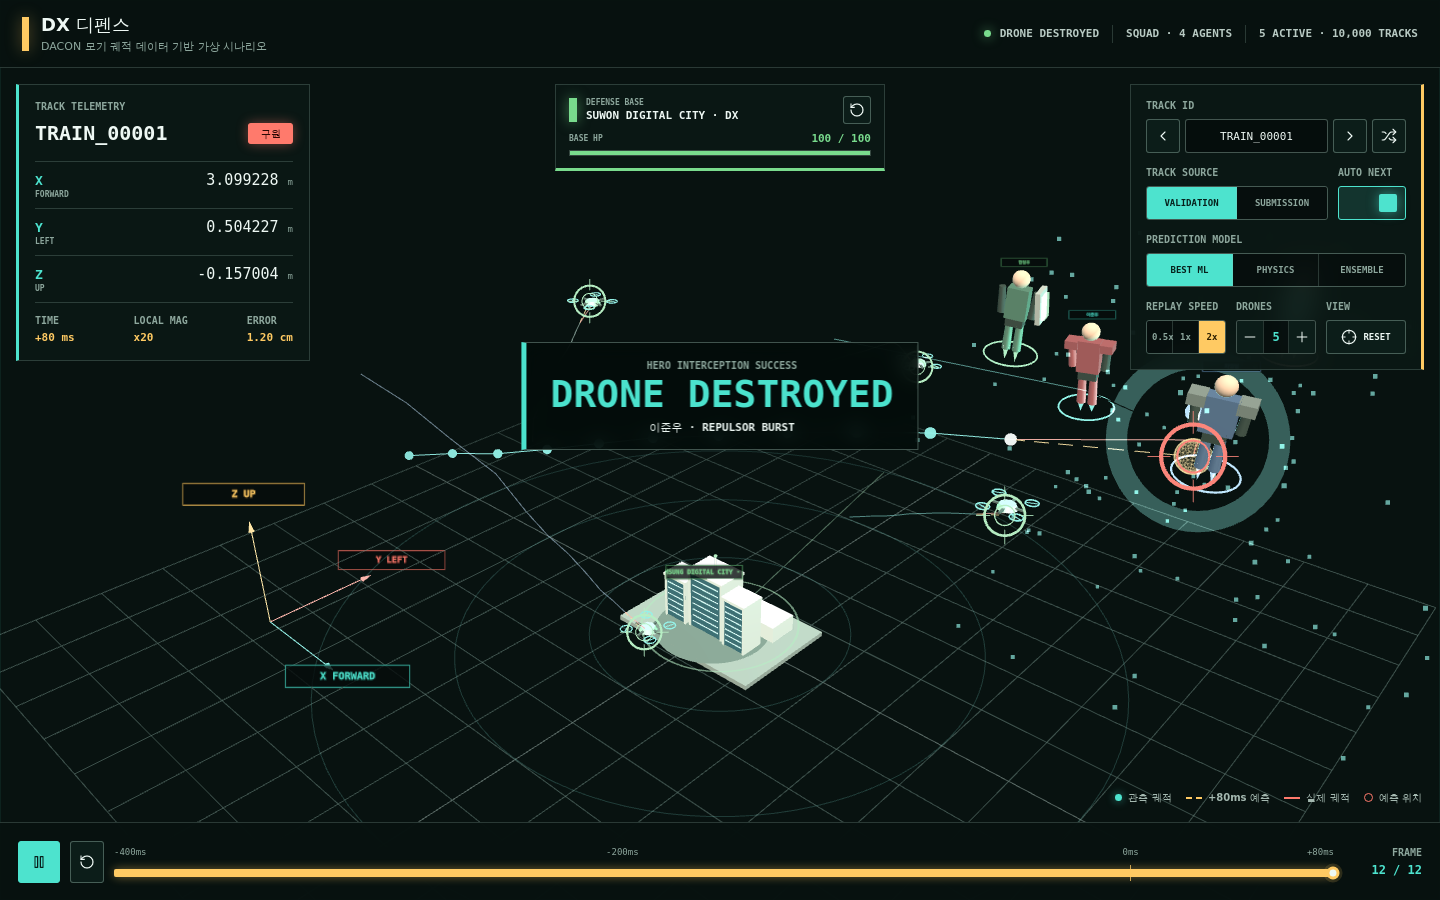
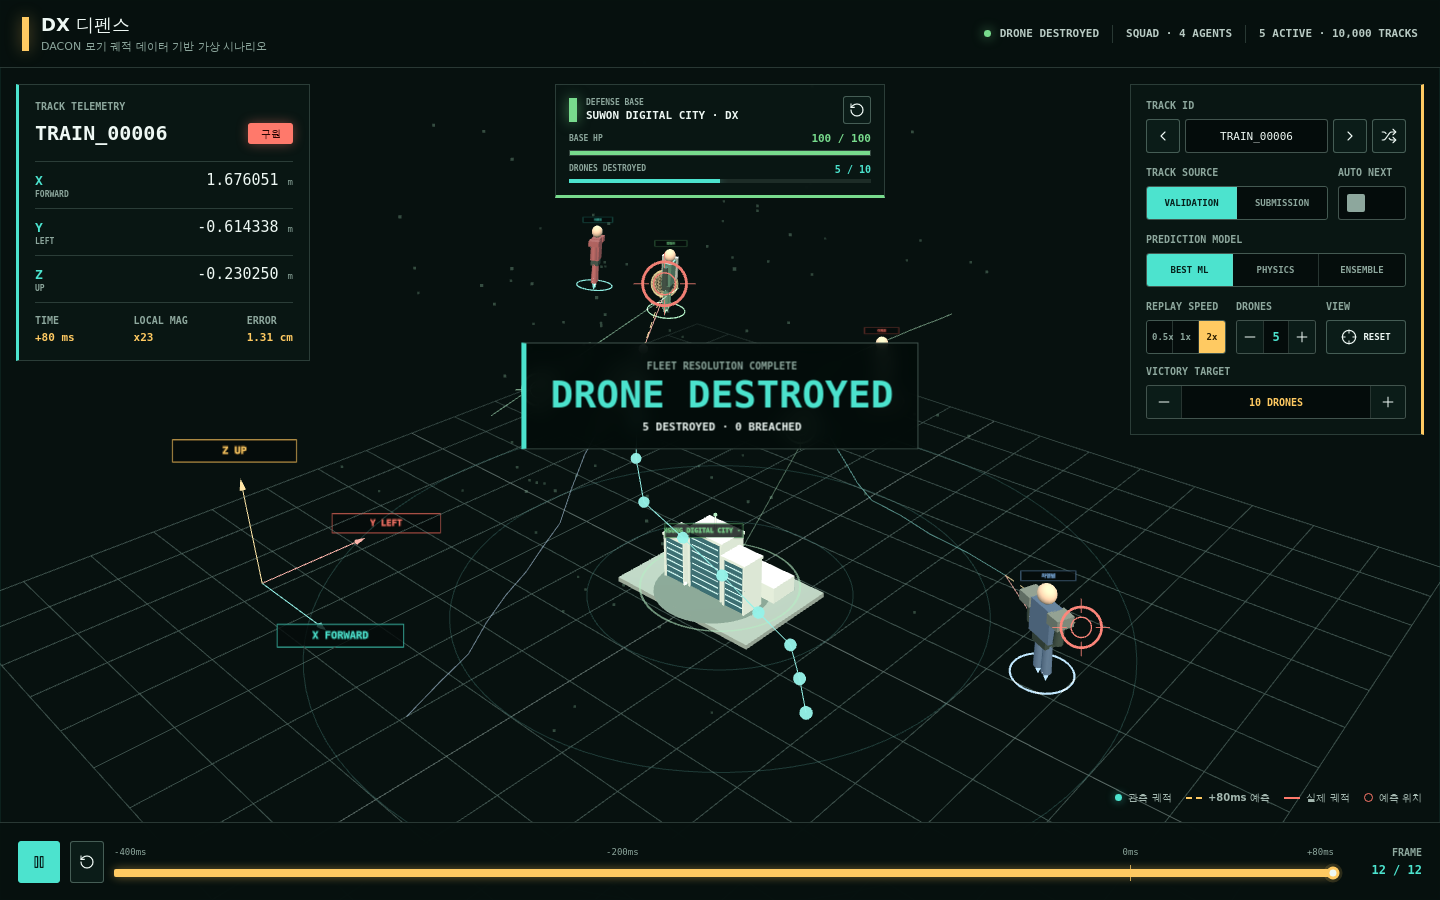
승리 목표를 10대에서 50대로 변경하고, 관련 HUD 및 진행률 표시 업데이트

diff --git a/visualization/src/main.js b/visualization/src/main.js
@@ -173,7 +173,7 @@ const state = {
   started: false,
   selectedHeroes: [],
   destroyedDrones: 0,
-  victoryTarget: 10,
+  victoryTarget: 50,
   victory: false,
 };
 
@@ -1160,7 +1160,7 @@ function updateMissionProgress() {
   elements.missionTrack.setAttribute("aria-valuemax", String(state.victoryTarget));
   elements.missionTrack.setAttribute("aria-valuenow", String(state.destroyedDrones));
   elements.decreaseVictoryTarget.disabled = state.victoryTarget <= 1;
-  elements.increaseVictoryTarget.disabled = state.victoryTarget >= 50;
+  elements.increaseVictoryTarget.disabled = state.victoryTarget >= 250;
 }
 
 function showVictoryOutro() {
@@ -1191,20 +1191,18 @@ function scheduleVictory() {
   victoryTimer = window.setTimeout(showVictoryOutro, 1050);
 }
 
-function recordDroneDestroyed() {
-  if (state.outcome?.destroyedRecorded) {
+function recordDroneDestroyed(result = state.outcome) {
+  if (!result || result.destroyedRecorded) {
     return;
   }
-  if (state.outcome) {
-    state.outcome.destroyedRecorded = true;
-  }
+  result.destroyedRecorded = true;
   state.destroyedDrones += 1;
   updateMissionProgress();
   scheduleVictory();
 }
 
 function setVictoryTarget(target) {
-  state.victoryTarget = THREE.MathUtils.clamp(Math.round(target), 1, 50);
+  state.victoryTarget = THREE.MathUtils.clamp(Math.round(target), 1, 250);
   updateMissionProgress();
   scheduleVictory();
 }
@@ -1737,6 +1735,192 @@ function createHeroInterception(origin, unit) {
   };
 }
 
+function createSupportProjectile(mode, heroId, color) {
+  const material = new THREE.MeshBasicMaterial({
+    color,
+    transparent: true,
+    opacity: 0.96,
+    depthWrite: false,
+    blending: THREE.AdditiveBlending,
+  });
+  if (mode === "hero-support" && heroId === "chaeeun") {
+    const group = new THREE.Group();
+    for (const offset of [-0.08, 0.08]) {
+      const pulse = new THREE.Mesh(
+        new THREE.SphereGeometry(0.075, 10, 8),
+        material.clone(),
+      );
+      pulse.position.x = offset;
+      group.add(pulse);
+    }
+    return group;
+  }
+  if (mode === "hero-support" && heroId === "youngbeom") {
+    return new THREE.Mesh(new THREE.IcosahedronGeometry(0.14, 1), material);
+  }
+  if (mode === "hero-support" && heroId === "jungwoo") {
+    return new THREE.Mesh(new THREE.BoxGeometry(0.07, 0.3, 0.22), material);
+  }
+  if (mode === "hero-support") {
+    return new THREE.Mesh(new THREE.SphereGeometry(0.13, 12, 10), material);
+  }
+  return new THREE.Mesh(new THREE.ConeGeometry(0.07, 0.32, 8), material);
+}
+
+function createFleetSupportOutcomes() {
+  return companionTracks
+    .filter((track) => track.sample.actual)
+    .map((track, index) => {
+      const prediction = track.sample.predictions[state.method];
+      const actual = track.sample.actual;
+      const errorMeters = Math.hypot(
+        prediction[0] - actual[0],
+        prediction[1] - actual[1],
+        prediction[2] - actual[2],
+      );
+      const hit = errorMeters <= HIT_RADIUS_METERS;
+      const heroUnit =
+        !hit && heroUnits.length > 0
+          ? heroUnits[Math.floor(Math.random() * heroUnits.length)]
+          : null;
+      const mode = hit ? "base-defense" : heroUnit ? "hero-support" : "base-attack";
+      const color =
+        mode === "base-defense"
+          ? COLORS.green
+          : mode === "hero-support"
+            ? HEROES[heroUnit.id].accent
+            : COLORS.red;
+      const target = companionToWorld(actual, track);
+      const start =
+        mode === "base-defense"
+          ? baseLaunchWorld()
+          : mode === "hero-support"
+            ? heroUnit.group.position.clone()
+            : target.clone();
+      const end = mode === "base-attack" ? baseTargetWorld() : target.clone();
+      const group = new THREE.Group();
+      const projectile = createSupportProjectile(mode, heroUnit?.id ?? null, color);
+      projectile.position.copy(start);
+      projectile.visible = false;
+      group.add(projectile);
+
+      const beam = new THREE.Line(
+        new THREE.BufferGeometry().setFromPoints([start, start]),
+        new THREE.LineBasicMaterial({
+          color,
+          transparent: true,
+          opacity: 0,
+          blending: THREE.AdditiveBlending,
+        }),
+      );
+      group.add(beam);
+
+      const impactRing = new THREE.Mesh(
+        new THREE.RingGeometry(0.16, 0.22, 36),
+        new THREE.MeshBasicMaterial({
+          color,
+          transparent: true,
+          opacity: 0,
+          side: THREE.DoubleSide,
+          depthWrite: false,
+          blending: THREE.AdditiveBlending,
+        }),
+      );
+      impactRing.position.copy(end);
+      impactRing.visible = false;
+      group.add(impactRing);
+
+      const impactLight = new THREE.PointLight(color, 0, 5);
+      impactLight.position.copy(end);
+      group.add(impactLight);
+      effectsGroup.add(group);
+
+      return {
+        track,
+        mode,
+        heroId: heroUnit?.id ?? null,
+        errorMeters,
+        group,
+        projectile,
+        beam,
+        impactRing,
+        impactLight,
+        start,
+        end,
+        delay: 0.12 + index * 0.1,
+        duration: mode === "base-attack" ? 0.78 : 0.66,
+        resolved: false,
+        destroyedRecorded: false,
+      };
+    });
+}
+
+function updateFleetSupportOutcomes(elapsed) {
+  const supportEffects = state.outcome?.supportEffects ?? [];
+  if (supportEffects.length === 0) {
+    return;
+  }
+
+  for (const support of supportEffects) {
+    const localTime = elapsed - support.delay;
+    if (localTime < 0) {
+      continue;
+    }
+    const progress = THREE.MathUtils.clamp(localTime / support.duration, 0, 1);
+    const eased = 1 - Math.pow(1 - progress, 3);
+    support.projectile.visible = progress < 1;
+    support.projectile.position.lerpVectors(support.start, support.end, eased);
+    support.projectile.rotation.x += 0.16;
+    support.projectile.rotation.z += 0.12;
+    support.beam.geometry.dispose();
+    support.beam.geometry = new THREE.BufferGeometry().setFromPoints([
+      support.start,
+      support.projectile.position,
+    ]);
+    support.beam.material.opacity = Math.sin(progress * Math.PI) * 0.72;
+
+    if (progress >= 1 && !support.resolved) {
+      support.resolved = true;
+      support.projectile.visible = false;
+      support.beam.material.opacity = 0;
+      support.impactRing.visible = true;
+      support.impactLight.intensity = 4.5;
+      if (support.mode === "base-attack") {
+        damageBase();
+        setBaseAlert(true);
+      } else {
+        support.track.drone.group.visible = false;
+        recordDroneDestroyed(support);
+      }
+    }
+
+    if (support.resolved) {
+      const impactElapsed = Math.max(0, localTime - support.duration);
+      support.impactRing.quaternion.copy(camera.quaternion);
+      support.impactRing.scale.setScalar(1 + impactElapsed * 4.2);
+      support.impactRing.material.opacity = Math.max(0, 0.9 - impactElapsed * 1.4);
+      support.impactLight.intensity = Math.max(0, 4.5 - impactElapsed * 6);
+    }
+  }
+
+  if (
+    supportEffects.every((support) => support.resolved)
+    && !state.outcome.supportSummaryShown
+  ) {
+    state.outcome.supportSummaryShown = true;
+    const primaryDestroyed = state.outcome.type === "hit" || state.outcome.heroId ? 1 : 0;
+    const supportDestroyed = supportEffects.filter(
+      (support) => support.mode !== "base-attack",
+    ).length;
+    const breached = supportEffects.filter(
+      (support) => support.mode === "base-attack",
+    ).length + (primaryDestroyed ? 0 : 1);
+    elements.outcomeKicker.textContent = "FLEET RESOLUTION COMPLETE";
+    elements.outcomeDetail.textContent =
+      `${primaryDestroyed + supportDestroyed} DESTROYED · ${breached} BREACHED`;
+  }
+}
+
 function showOutcomeOverlay(type, errorMeters, heroId = null) {
   const hit = type === "hit";
   const hero = heroId ? HEROES[heroId] : null;
@@ -1793,6 +1977,7 @@ function triggerOutcome(now) {
     damageApplied: false,
     impactApplied: false,
   };
+  state.outcome.supportEffects = createFleetSupportOutcomes();
   showOutcomeOverlay(type, errorMeters, heroUnit?.id);
   setTargetColor(type === "hit" ? COLORS.amber : COLORS.red);
   errorLine.visible = true;
@@ -1822,6 +2007,10 @@ function triggerOutcome(now) {
 function updateHeroUnits(now) {
   const elapsed = now * 0.001;
   const rotationAxis = new THREE.Vector3(0, 1, 0);
+  const escortDrones = [
+    drone.group,
+    ...companionTracks.map((track) => track.drone.group),
+  ];
 
   for (const unit of heroUnits) {
     const pulse = 0.82 + Math.sin(elapsed * 8 + unit.slot) * 0.18;
@@ -1834,11 +2023,15 @@ function updateHeroUnits(now) {
       continue;
     }
 
-    const offset = unit.offset.clone().applyAxisAngle(rotationAxis, drone.group.rotation.y * 0.4);
-    const desired = drone.group.position.clone().add(offset);
+    const escort = escortDrones[unit.slot % escortDrones.length];
+    const offset = unit.offset
+      .clone()
+      .multiplyScalar(0.72)
+      .applyAxisAngle(rotationAxis, escort.rotation.y * 0.4);
+    const desired = escort.position.clone().add(offset);
     desired.y += Math.sin(elapsed * 3.4 + unit.slot * 1.7) * 0.12;
     unit.group.position.lerp(desired, 0.1);
-    unit.group.rotation.y = drone.group.rotation.y + Math.PI;
+    unit.group.rotation.y = escort.rotation.y + Math.PI;
     unit.model.rotation.z = Math.sin(elapsed * 2.2 + unit.slot) * 0.055;
     unit.model.rotation.x = -0.1 + Math.sin(elapsed * 2.8 + unit.slot) * 0.025;
   }
@@ -2050,6 +2243,7 @@ function updateOutcomeEffect(now) {
       effect.impactLight.intensity = 0;
     }
   }
+  updateFleetSupportOutcomes(elapsed);
 }
 
 function rebuildTrajectory() {

diff --git a/visualization/index.html b/visualization/index.html
@@ -147,9 +147,9 @@
         </div>
         <div class="mission-row">
           <span>DRONES DESTROYED</span>
-          <strong><b id="destroyed-count">0</b> / <b id="victory-target-display">10</b></strong>
+          <strong><b id="destroyed-count">0</b> / <b id="victory-target-display">50</b></strong>
         </div>
-        <div class="mission-track" role="progressbar" aria-label="승리 목표 진행률" aria-valuemin="0" aria-valuemax="10" aria-valuenow="0">
+        <div class="mission-track" role="progressbar" aria-label="승리 목표 진행률" aria-valuemin="0" aria-valuemax="50" aria-valuenow="0">
           <div id="mission-fill" class="mission-fill"></div>
         </div>
       </section>
@@ -268,7 +268,7 @@
             <button id="decrease-victory-target" class="icon-button" type="button" aria-label="승리 목표 감소" title="승리 목표 감소">
               <i data-lucide="minus"></i>
             </button>
-            <output id="victory-target">10 DRONES</output>
+            <output id="victory-target">50 DRONES</output>
             <button id="increase-victory-target" class="icon-button" type="button" aria-label="승리 목표 증가" title="승리 목표 증가">
               <i data-lucide="plus"></i>
             </button>
@@ -330,7 +330,7 @@
           <div class="victory-summary">
             <div>
               <span>DESTROYED</span>
-              <strong id="victory-destroyed">10 DRONES</strong>
+              <strong id="victory-destroyed">50 DRONES</strong>
             </div>
             <div>
               <span>BASE STATUS</span>

diff --git a/README.md b/README.md
@@ -144,8 +144,9 @@ npm run dev
 - `DX 디펜스` 작전 인트로에서 시작되는 게임형 시연 흐름
 - 이준우(기술 장갑), 이채은(잠입), 차영범(전격), 한정우(방어 지휘)를 0~4명 자유롭게 편성
 - 영웅 선택 시 전투 초상화 전환, 캐릭터별 한국어 기합과 에너지 충격음 재생
-- 선택 영웅의 3D 호위 비행과 MISS 발생 시 무작위 영웅 고유 공격·드론 파괴
-- 기본 10대인 승리 목표 설정, 파괴 진행률 HUD와 목표 달성 아웃트로
+- 편대 내 모든 Track의 HIT/MISS 독립 판정과 파괴 수·기지 HP 일괄 반영
+- 선택 영웅의 편대 분산 호위와 각 MISS 무인기 대상 무작위 영웅 지원 격추
+- 기본 50대인 승리 목표 설정, 파괴 진행률 HUD와 목표 달성 아웃트로
 - 승리 시 디지털시티·네 영웅·최종 전적과 함께 표시되는 엔딩 메시지
 - 서로 다른 궤적을 동시에 비행하는 다중 3D 드론(1~10대 설정, 기본 5대)
 - `submission_best.csv`, `submission_physics.csv`, `submission_ensemble.csv` 예측 비교